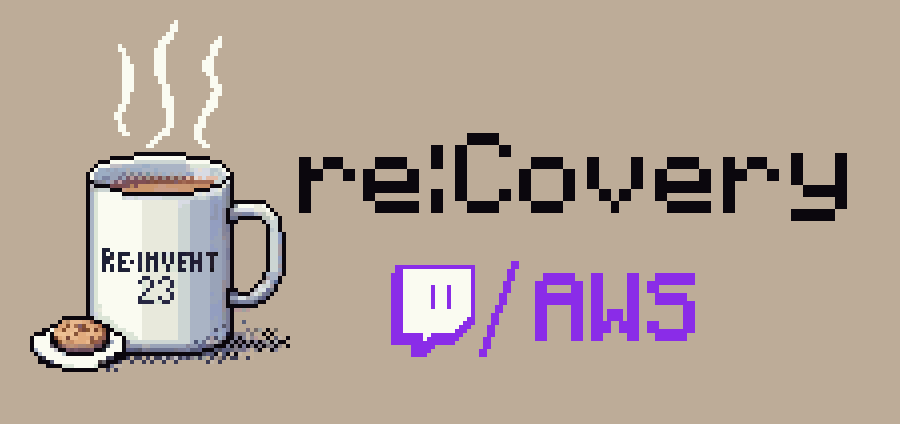
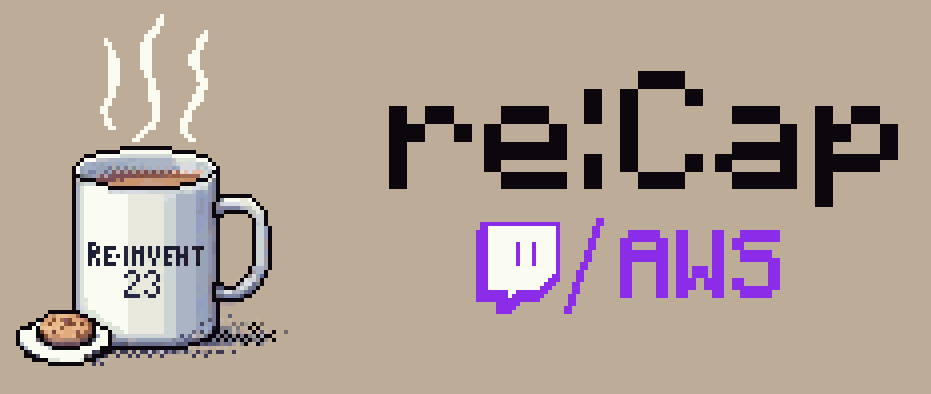
[LIVESTREAM] name changes (#966)
* name changes

* Adding reinvent 2023 tag.

---------

Changed region(s): [[0.0, 0.0305, 0.9644, 0.9442], [0.4356, 0.5482, 0.84, 0.8528]]

diff --git a/livestreams/recovery2023/index.md b/livestreams/recovery2023/index.md
@@ -1,10 +1,11 @@
 ---
-title: "re:Covery 2023"
+title: "Build On re:Cap 2023"
 description: "Sit back, relax, grab a warm beverage ☕, and join us as we take some to recover, recap and build things with the latest and greatest launches from AWS re:Invent 2023"
 tags:
   - aws
   - build-on-live
   - twitch
+  - reinvent
   - reinvent23
 spaces:
   - reinvent
@@ -17,7 +18,7 @@ images:
   background: ./images/recover_square.png.png
 ---
 
-![re:Cover event banner](./images/recover_banner.png)
+![re:Cap event banner](./images/recover_banner.png)
 
 Join us for a comprehensive 3-day live stream designed to re:Cap and re:Cover from last week's AWS re:Invent 2023. The purpose of this live stream event is to demonstrate to you how to use and implement the latest launches and features in a practical manner. Each day will consist of a 4-5 hour long live stream, dedicated to achieving a specific goal by utilizing the new features. 
 
